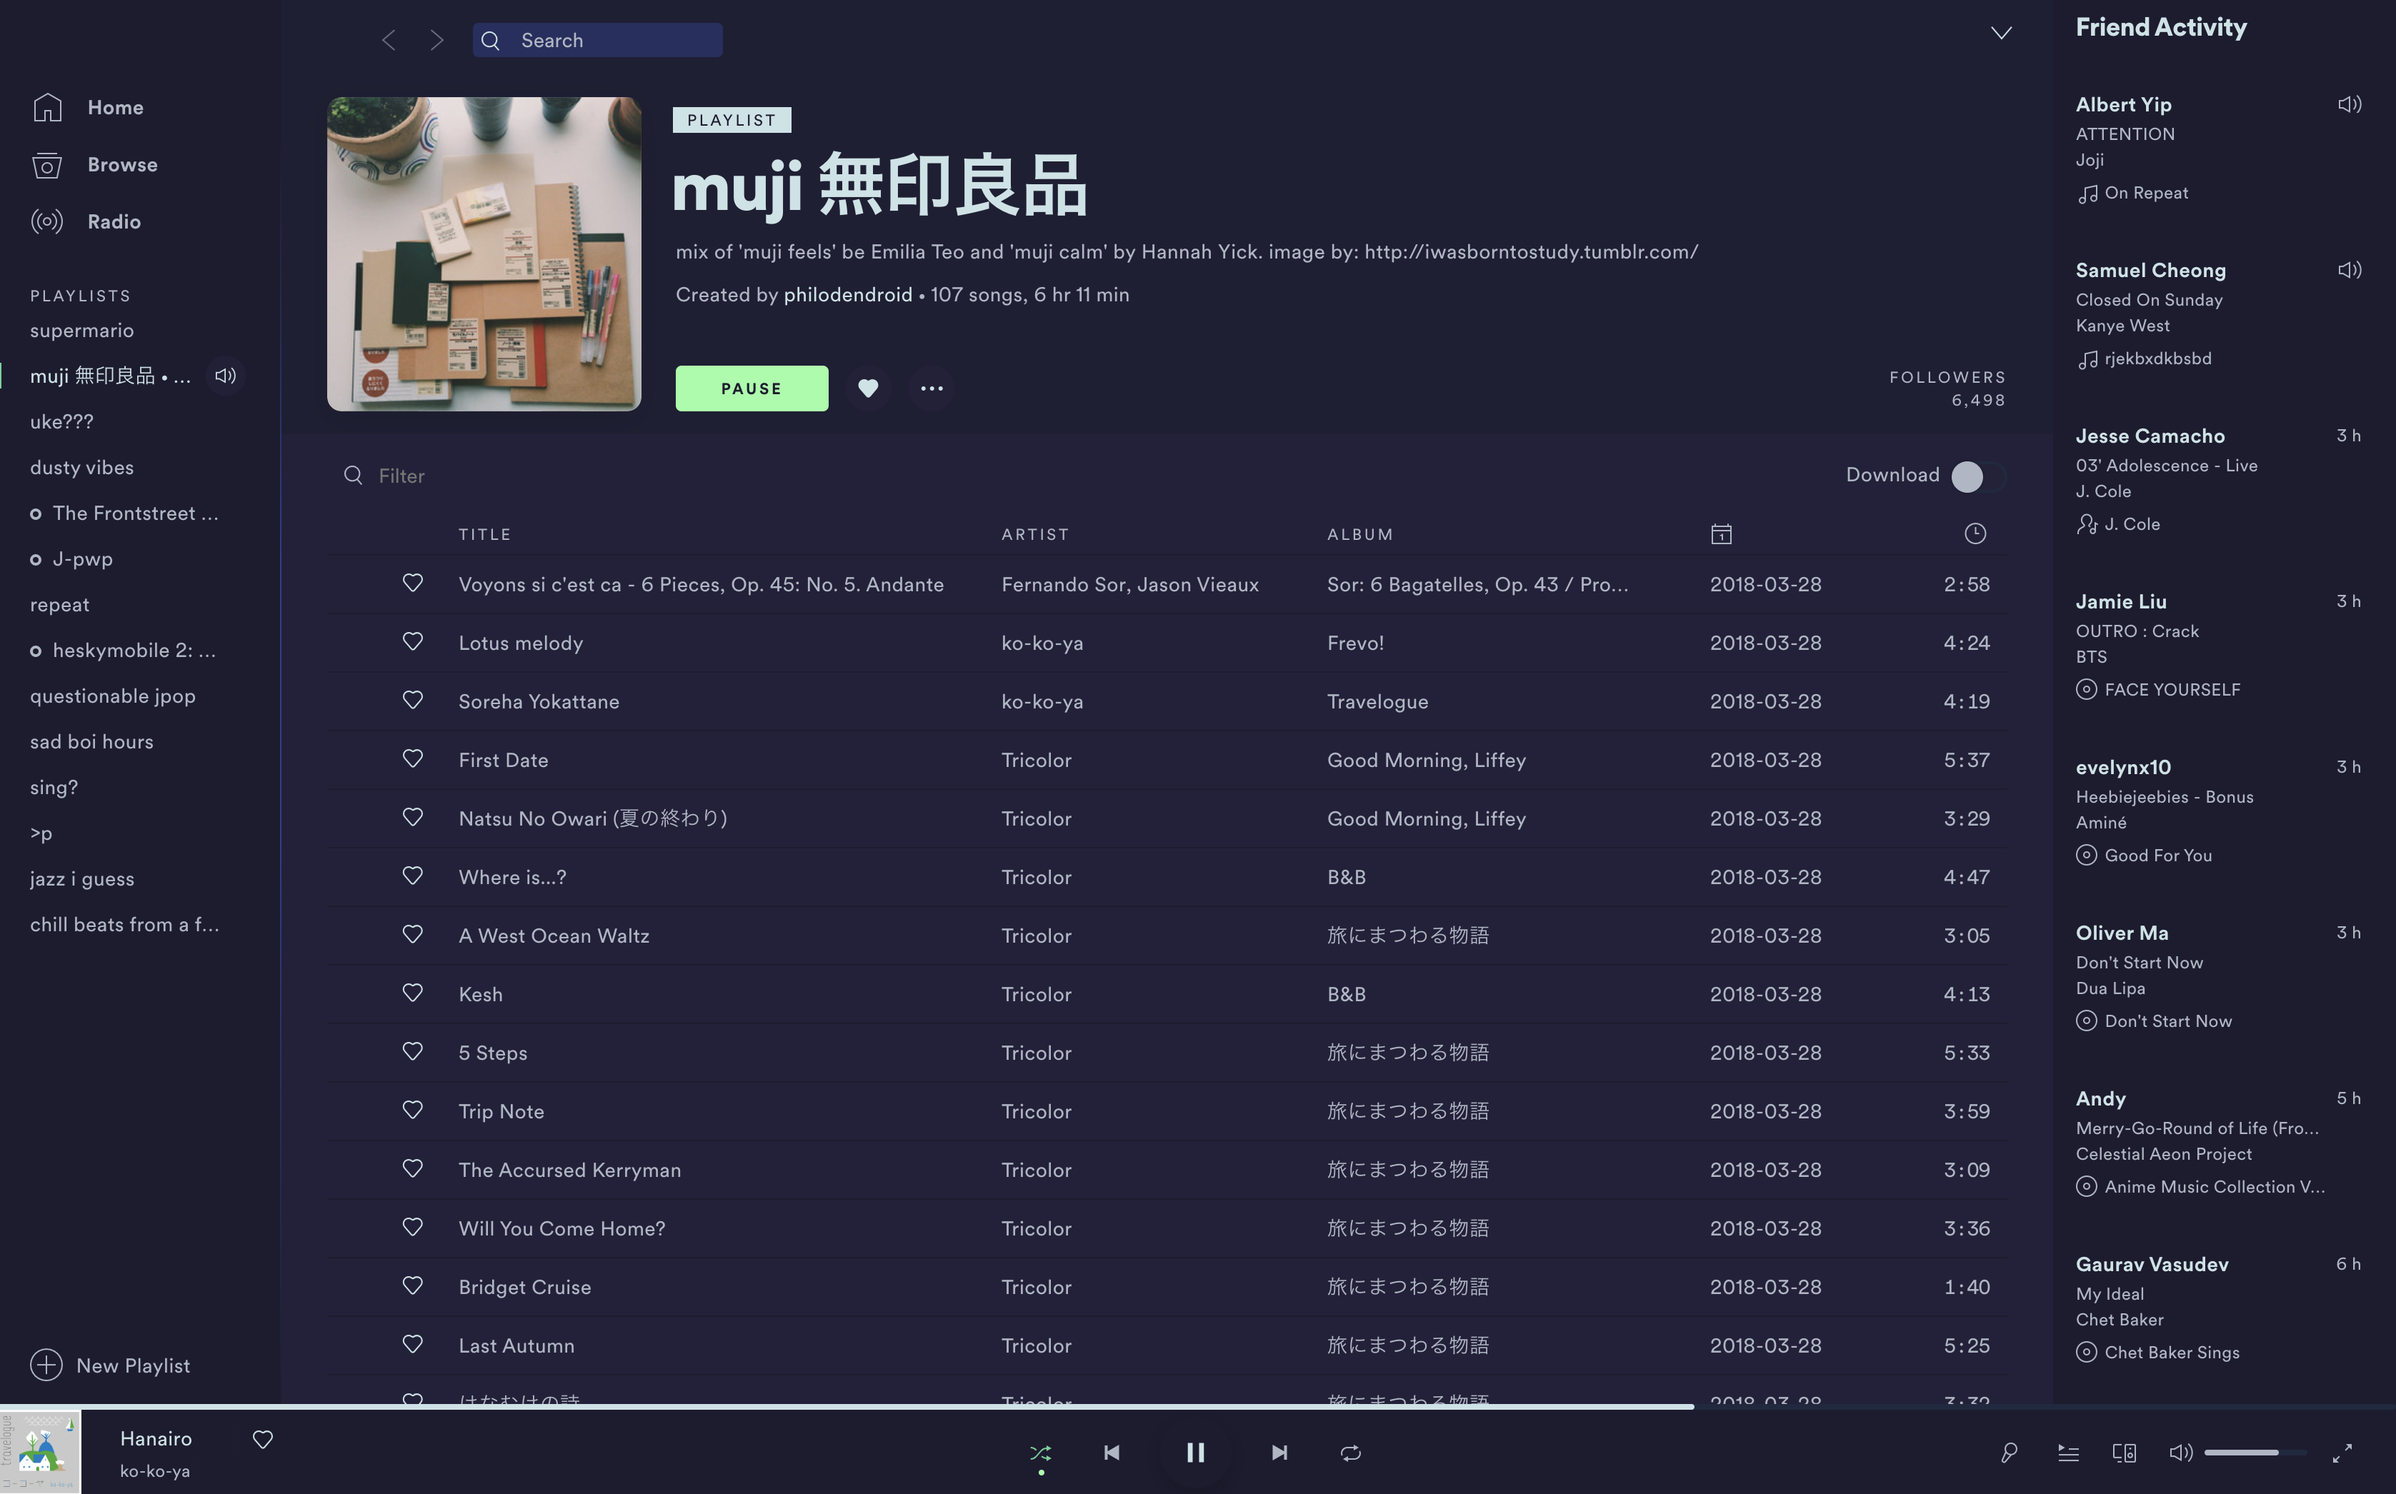
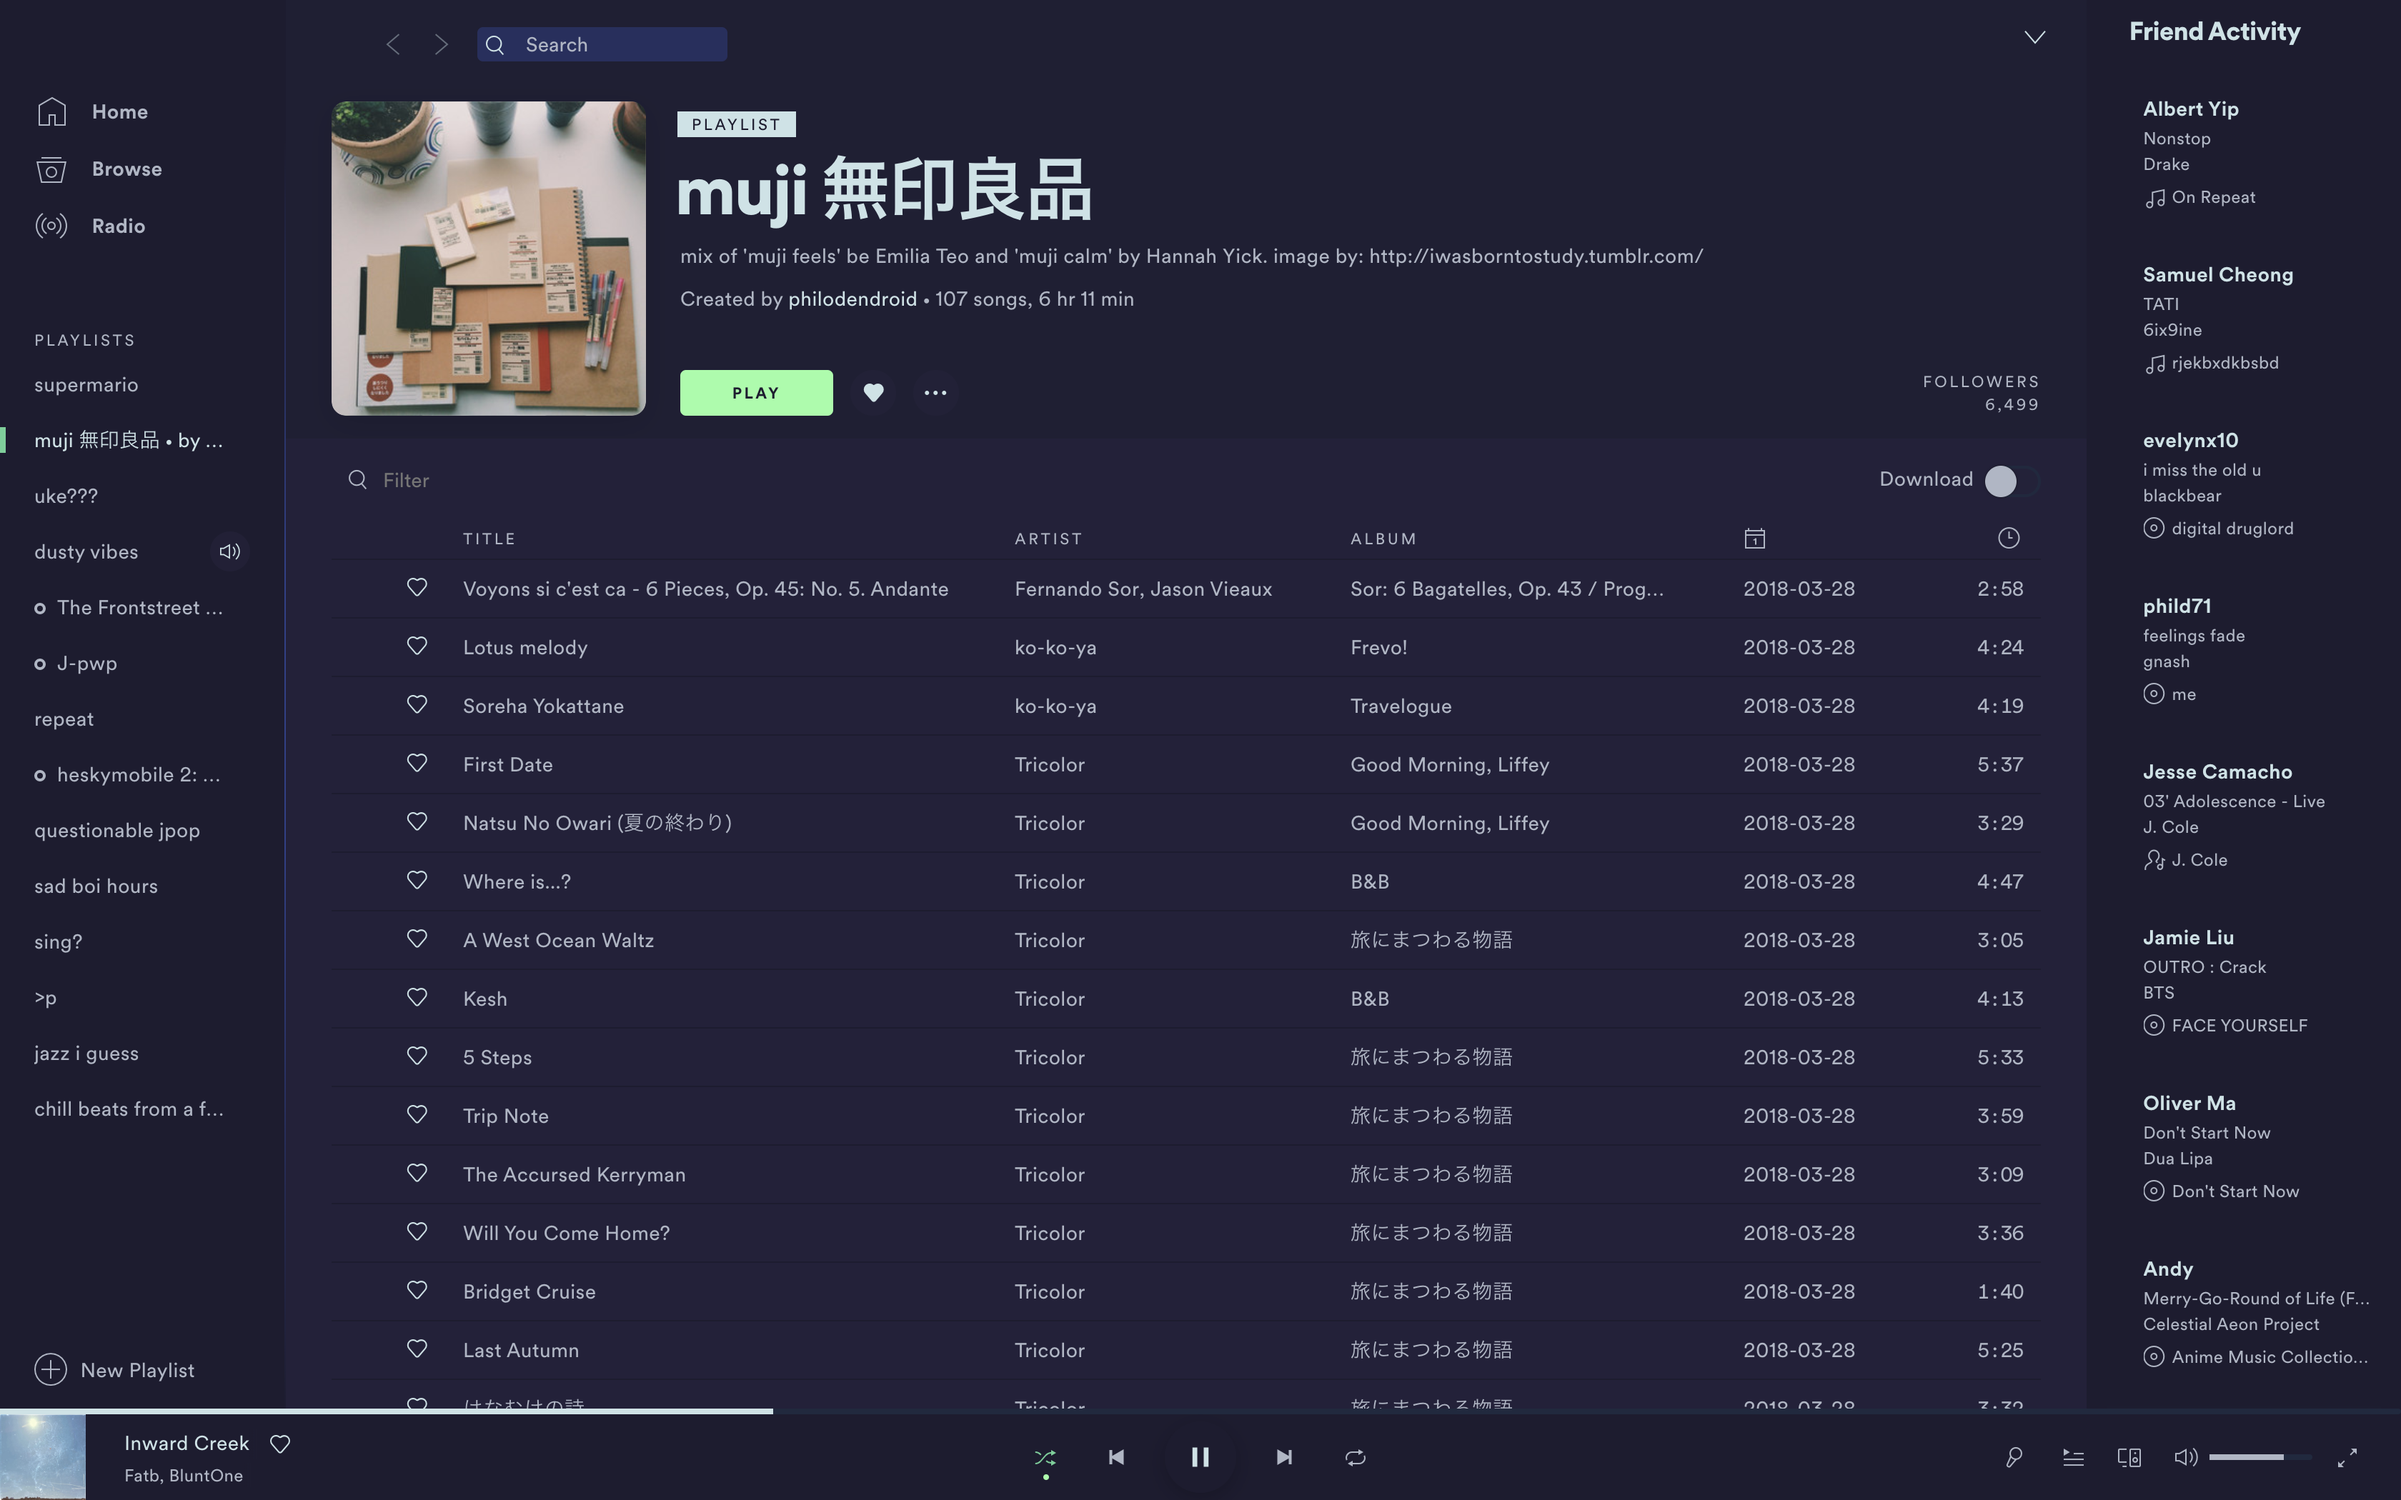
buddy list cleanup and bar fix

diff --git a/Challenger-Deep/user.css b/Challenger-Deep/user.css
@@ -1,5 +1,6 @@
 :root {
 	--bar-height: 60px;
+	--right-sidebar-width: 200px !important;
   }
 
   /*Round corner cover image*/
@@ -326,6 +327,27 @@
 	margin-top: -5px;
   }
 
+	.buddy-list-iframe {
+		margin-left: 1em !important;
+		margin-right: 1em !important;
+	}
+
+	.card-wrapper {
+		margin-left: 5%;
+	}
+
+	.status-containers {
+		display: None !important;
+	}
+
+	#resize-buddy-list {
+		display: None !important;
+	}
+
+	#view-buddy-list {
+		min-width: 220px !important;
+	}
+
   /* Spice up Fullscreen mode */
   #view-player .album-art .album-art__image {
 	border-radius: 30px !important;
@@ -437,10 +459,18 @@
   /* Small tooltip */
   #tooltip {
 	box-shadow: 0 0 10px rgba(0, 0, 0, 0.2) !important;
-	border-radius: 5px !important;
-	border: 2px solid var(--modspotify_main_fg);
-	padding: 10px 10px;
+	border-radius: 2px !important;
+	border: 1px solid var(--modspotify_secondary_fg);
+	padding: 0.25em 0.35em;
   }
+
+	.Rootlist {
+		margin-top: 2em !important;
+	}
+
+	.RootlistItemPlaylist {
+		margin-top: 0.5em !important;
+	}
 
   .tooltip-arrow-top, .tooltip-arrow-bottom {
 	display: none !important;
@@ -582,6 +612,15 @@
 	height: 4px;
   }
 
+	.progress-bar .handle {
+		border-radius: 10% !important;
+		border: 1px solid var(--modspotify_main_fg) !important;
+	}
+
+	.progress-bar .inner {
+		border-radius: 0 !important;
+	}
+
   .progress-container {
 	position: fixed !important;
 	width: 100% !important;
@@ -599,9 +638,9 @@
   }
 
   .context-menu {
-	border: 1px solid var(--modspotify_main_fg);
+	border: 1px solid var(--sidebar_and_player_bg);
 	box-shadow: 0 4px 12px 0 rgba(var(--modspotify_rgb_cover_overlay_and_shadow), 0.2);
-	border-radius: 4px !important;
+	border-radius: 3px !important;
 	overflow: hidden;
   }
 
